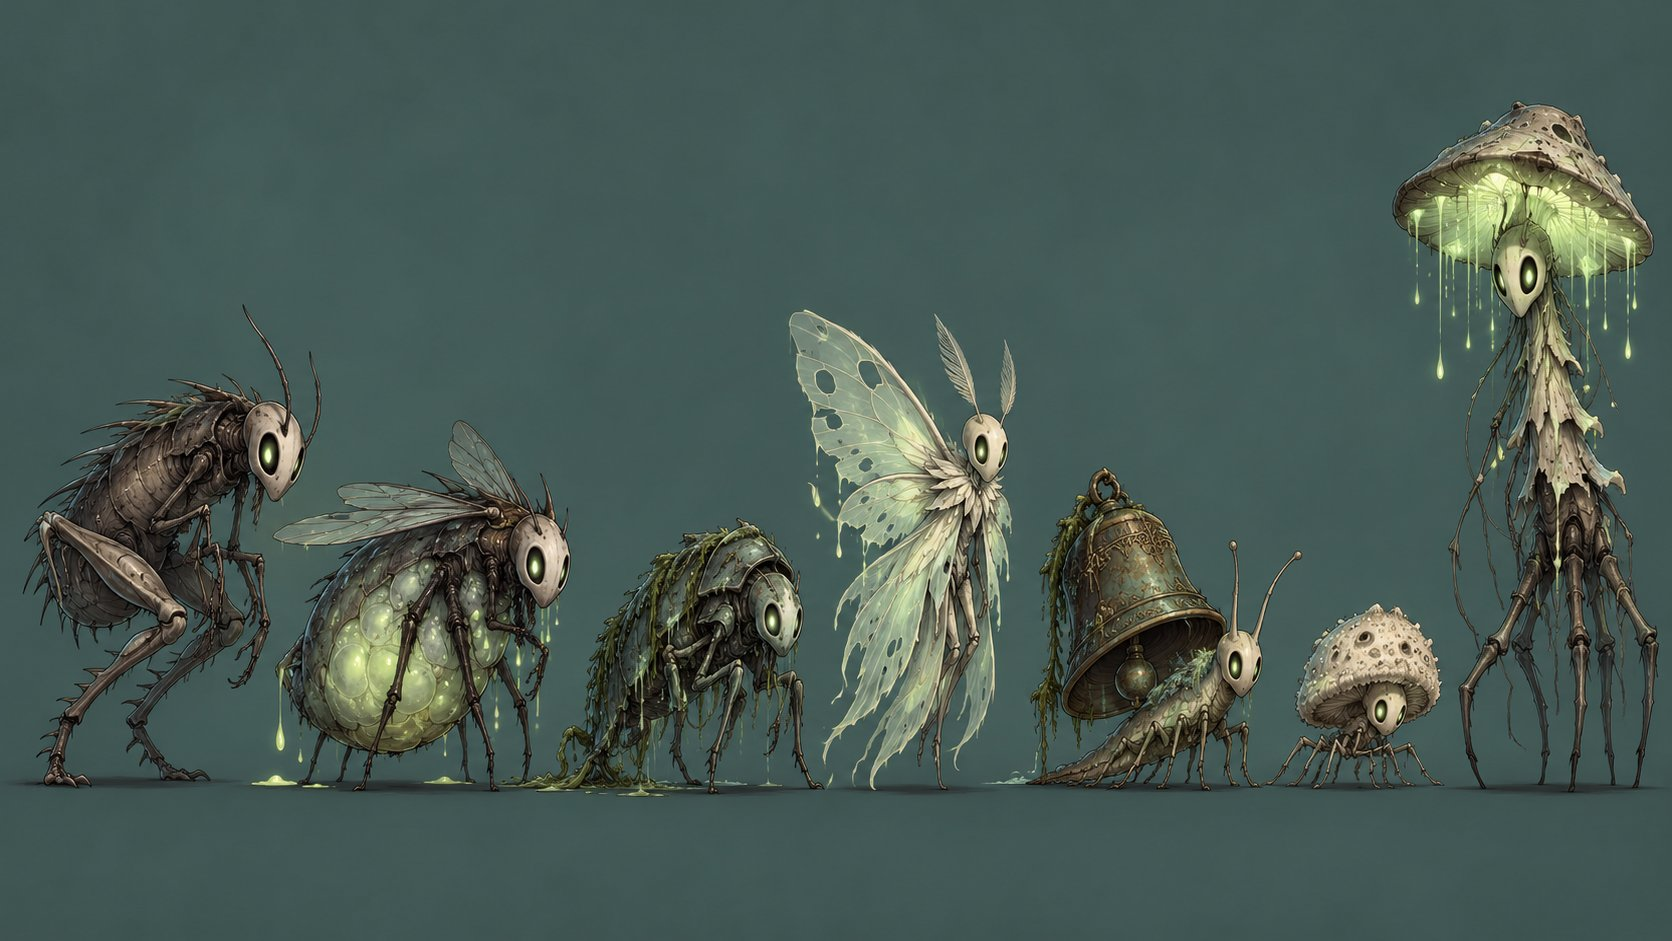
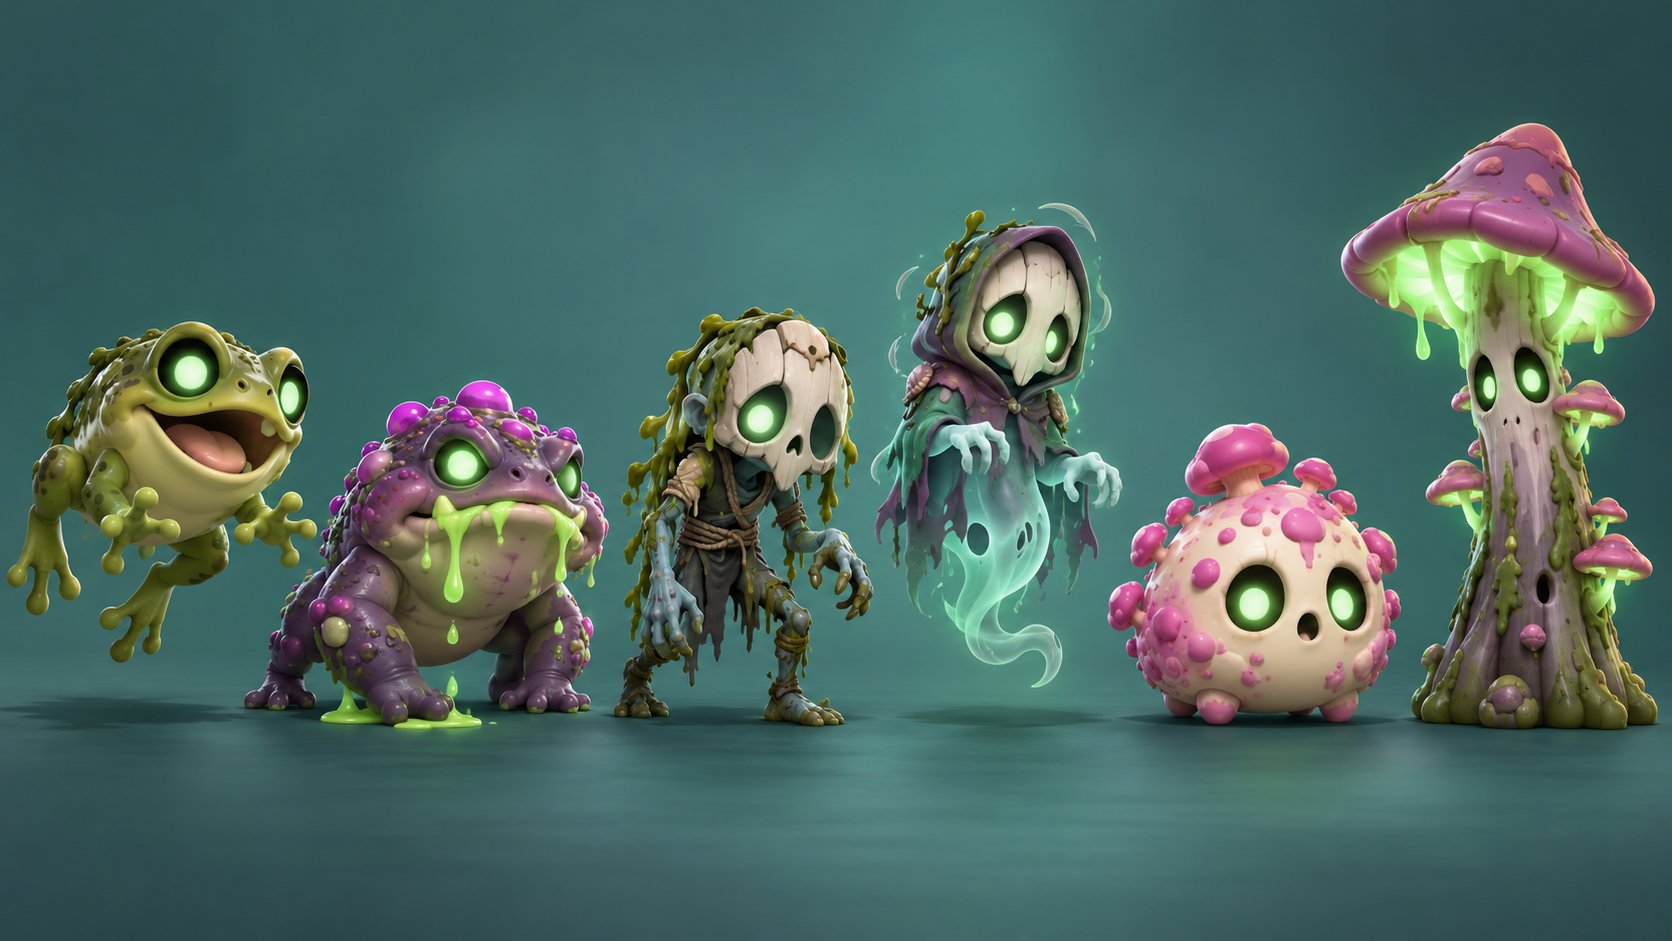
Enemies back to their arena themes, with a touch of Hollow Knight (#81)
The all-insect pass went too far (owner). Reverts it: the roster, names
and docs return to each arena's own creatures in the Archero 2 toy
style, and a design-language section adds a light touch of Hollow
Knight - bold silhouettes, hollow glowing eyes in each act's colour, a
pale mask on some creatures, the odd cloak. New line-ups for all five
acts made with ChatGPT Codex; arenas unchanged.

diff --git a/docs/ENEMIES-AND-ARENAS.md b/docs/ENEMIES-AND-ARENAS.md
@@ -34,40 +34,29 @@ directly above on a phone, glowing eyes, and a telegraph before any hit.
 
 ---
 
-## Design language — an insect kingdom
+## Design language — themed, with a touch of Hollow Knight
 
-The owner, 2026-10-22: keep the arenas, and "take inspiration from the enemy
-design from Hollow Knight and Hollow Knight Silksong". So every enemy is an
-**original** creature of an insect kingdom, built to the same rules those
-games' bestiaries follow — not a copy of any of their characters:
+Enemies belong to their arena: forest slimes and wolves, marsh frogs and
+toads, mountain yetis and goats, forge imps and golems, castle knights and
+ghosts — in the same Archero 2 toy style as the arenas (`ART-archero2.md`).
 
-- **Bugs, all of them.** Chitin shells, slender spindly legs, wings, horns,
-  mandibles. The roles are unchanged — a Charger is still a Charger — only
-  the body is new.
-- **A pale mask.** Each creature wears a bone-white face plate with two big
-  hollow eye sockets. From our steep top-down camera the mask is what a
-  player sees first, so it carries the silhouette.
-- **Eyes glow in the act's colour.** It keeps our readability rule (glowing
-  eyes, nothing important dark) and ties each act together: amber in the
-  Wilds, pale green in the Lowlands, cold white-blue in the Heights, ember
-  orange in the Depths, void violet at the End.
-- **One silhouette idea per creature.** A shield, a bell, a horn, a hood —
-  the rest stays quiet, so a busy room on a phone still reads.
-- **Muted bodies, bright danger.** Shells in dusty, desaturated tones;
-  shots, telegraphs and the eyes carry the colour.
-- **Charming, not grim.** Odd, a little sad, never gory — the kingdom has
-  fallen, and its bugs carry on.
+On top of that, a light touch of what makes Hollow Knight's and Silksong's
+creatures memorable (owner, 2026-10-22: "take some inspiration but still
+keep the arena theme" — an earlier all-insect pass went too far):
 
-In game they become low-poly 3D models in the toy style the arenas use
-(`ART-archero2.md`); the concept sheets are painted to settle the design.
+- **Bold, simple silhouettes** — one idea per creature, readable from our
+  steep top-down camera on a phone.
+- **Hollow, glowing eyes**, in each act's colour: amber in the Wilds, pale
+  green in the Lowlands, white-blue in the Heights, ember orange in the
+  Depths, violet at the End.
+- **A small pale mask or face plate on *some* creatures** — the Glade Wolf's
+  skull mask, the Corrupted Monk's hollow mask, the Void Wisp that is only a
+  mask — not on all of them, so it stays a signature rather than a uniform.
+- **The odd slender limb or little tattered cloak**, and a slightly wistful
+  charm — never gory.
 
-| Act | Accent | New names (old role name) |
-|---|---|---|
-| 1 | amber | Mossgrub (Moss Slime) · Seedspitter (Sprout Slime) · Thicket Hound (Glade Wolf) · Broodbelly (Mother Slime) · Briar Skitter (Thorn Spider) · Silk Spinner (Web Spitter) · Root Lurker (Bramble Lurker) · Weaver Matron (Broodmother) · Mantis Archer (Bandit Archer) · Shellguard (Brute) · Needle Rogue (Cutthroat) · Spore Lobber (Bomb Tosser) |
-| 2 | pale green | Mire Flea (Bog Frog) · Bloatfly (Toxic Toad) · Mire Leech (Swamp Lurker) · Flea Swarm (Croaking Chorus) · Sodden Shell (Drowned Zombie) · Lantern Moth (Wisp Ghost) · Bell Snail (Bell Ringer) · Angler Mantis (Hollow Fisherman) · Puffshroom Crawler (Spore Puff) · Glowcap · Blind Centipede (Cave Crawler) · Shellback |
-| 3 | white-blue | Gale Moth (Harpy) · Chime Mantis (Gust Shaman) · Ram Beetle (Cliff Goat) · Thunder Moth (Storm Roc) · Frost Bulk (Yeti) · Rime Scarab (Frost Golem) · Frost Mite (Snow Sprite) · Crystal Tick (Ice Lurker) · Masked Pilgrim (Corrupted Monk) · Censer Acolyte (Chanting Acolyte) · Lantern Wisp (Lantern Spirit) · Bellkeeper Beetle (Bell Guardian) |
-| 4 | ember orange | Ember Mite (Fire Imp) · Cinder Moth (Ember Bat) · Rail Weevil (Mine Cart Bomber) · Magma Grub (Magma Lurker) · Forge Shell (Dwarven Construct) · Mortar Snail (Forge Turret) · Anvil Rhino Beetle (Anvil Golem) · Spark Firefly (Spark Drone) · Magma Larva (Lava Slime) · Ember Mantis (Ember Mage) · Obsidian Stag (Obsidian Brute) |
-| 5 | void violet | Lost Sentinel (Undead Knight) · Shade Archer (Skeleton Archer) · Wailing Moth (Banshee) · Stone Stag (Gargoyle) · Void Mote (Void Wisp) · Rift Mantis (Rift Stalker) · Gravity Orb · Echo |
+These are original designs; the prompts that made the concept art describe
+the style without naming either game.
 
 ---
 
@@ -81,10 +70,10 @@ the act that teaches the game.
 
 | Enemy | Made from | What it does | Teaches |
 |---|---|---|---|
-| **Mossgrub** | Charger, slow · reskin | Hops straight at you | Move or shoot |
-| **Seedspitter** | Spitter · reskin | Lobs one slow seed | Dodging a shot |
-| **Thicket Hound** | Charger, fast · twist: comes in packs of 3 that circle before lunging | Circles, then dashes in | Reading a lunge |
-| *Elite:* **Broodbelly** | Bulwark · twist: bursts into 2 Mossgrubs on death | A slow wall that becomes two threats | Finishing what you start |
+| **Moss Slime** | Charger, slow · reskin | Hops straight at you | Move or shoot |
+| **Sprout Slime** | Spitter · reskin | Lobs one slow seed | Dodging a shot |
+| **Glade Wolf** | Charger, fast · twist: comes in packs of 3 that circle before lunging | Circles, then dashes in | Reading a lunge |
+| *Elite:* **Mother Slime** | Bulwark · twist: splits into 2 Moss Slimes on death | A slow wall that becomes two threats | Finishing what you start |
 
 **Arenas.** *Clearing* — open grass, two mossy stumps. *Fairy Ring* — a ring
 of mushrooms (low cover) round an open centre. *Fallen Log* — one long log
@@ -94,10 +83,10 @@ across the middle with a gap at each end.
 
 | Enemy | Made from | What it does |
 |---|---|---|
-| **Briar Skitter** | Charger · twist: leaves a short sticky web patch where it dies (slows) | Fast skitter, web on death |
-| **Silk Spinner** | Spitter · twist: its orbs leave slow patches | Area denial |
-| **Root Lurker** | Lurker · reskin (vine bulb) | Surfaces under you with a ring of thorns |
-| *Elite:* **Weaver Matron** | Bulwark · twist: drops 2 Briar Skitters every few seconds | Must be pushed through |
+| **Thorn Spider** | Charger · twist: leaves a short sticky web patch where it dies (slows) | Fast skitter, web on death |
+| **Web Spitter** | Spitter · twist: its orbs leave slow patches | Area denial |
+| **Bramble Lurker** | Lurker · reskin (vine bulb) | Surfaces under you with a ring of thorns |
+| *Elite:* **Broodmother** | Bulwark · twist: drops 2 Thorn Spiders every few seconds | Must be pushed through |
 
 **Arenas.** *Bramble Maze* — brambles carve the room into lanes with gaps.
 *The Funnel* — the room narrows to a single gap halfway up. *Briar Patch* —
@@ -107,10 +96,10 @@ scattered bramble clumps; touching one slows (a soft hazard).
 
 | Enemy | Made from | What it does |
 |---|---|---|
-| **Mantis Archer** | Lancer · reskin (hooded bandit, bow) | Telegraphed aimed shot |
-| **Shellguard** | Bulwark · reskin (big club, wooden shield) | Blocks, swings when close |
-| **Needle Rogue** | Charger · twist: dashes in, strikes, then retreats | Hit-and-run |
-| **Spore Lobber** | Spitter · twist: one arcing bomb that bursts in a ring after a fuse | A delayed area |
+| **Bandit Archer** | Lancer · reskin (hooded bandit, bow) | Telegraphed aimed shot |
+| **Brute** | Bulwark · reskin (big club, wooden shield) | Blocks, swings when close |
+| **Cutthroat** | Charger · twist: dashes in, strikes, then retreats | Hit-and-run |
+| **Bomb Tosser** | Spitter · twist: one arcing bomb that bursts in a ring after a fuse | A delayed area |
 
 **Arenas.** *Canyon Floor* — long open room, crates as cover. *Watchtowers* —
 two raised platforms an archer stands on (it can only be reached by shots).
@@ -129,10 +118,10 @@ that slows — the act where standing still in the wrong place costs you.
 
 | Enemy | Made from | What it does |
 |---|---|---|
-| **Mire Flea** | **New: leaper** — jumps to a marked spot, lands with a splash ring | Telegraphed leaps |
-| **Bloatfly** | Spitter · twist: shots leave a poison puddle | Poisons the ground |
-| **Mire Leech** | Lurker · reskin (eyes on stalks) | Pops up out of the water |
-| *Elite:* **Flea Swarm** | 4 Mire Fleas that leap together on a beat | Rhythm dodging |
+| **Bog Frog** | **New: leaper** — jumps to a marked spot, lands with a splash ring | Telegraphed leaps |
+| **Toxic Toad** | Spitter · twist: shots leave a poison puddle | Poisons the ground |
+| **Swamp Lurker** | Lurker · reskin (eyes on stalks) | Pops up out of the water |
+| *Elite:* **Croaking Chorus** | 4 Bog Frogs that leap together on a beat | Rhythm dodging |
 
 **Arenas.** *Lily Pads* — the floor is water with pad "islands"; water is a
 slow zone. *Poison Ring* — a poison pool in the middle, fight round its edge.
@@ -142,10 +131,10 @@ slow zone. *Poison Ring* — a poison pool in the middle, fight round its edge.
 
 | Enemy | Made from | What it does |
 |---|---|---|
-| **Sodden Shell** | Charger, slow · twist: rises once more after death unless it burns | Slow, relentless |
-| **Lantern Moth** | **New: phaser** — drifts through walls and obstacles, fades in and out | Can't be hidden from |
-| **Bell Snail** | Lancer · twist: its shot is a sound wave cone, not a line | A wide telegraph |
-| *Elite:* **Angler Mantis** | Bulwark · twist: hooks you toward it (pull) | Being pulled |
+| **Drowned Zombie** | Charger, slow · twist: rises once more after death unless it burns | Slow, relentless |
+| **Wisp Ghost** | **New: phaser** — drifts through walls and obstacles, fades in and out | Can't be hidden from |
+| **Bell Ringer** | Lancer · twist: its shot is a sound wave cone, not a line | A wide telegraph |
+| *Elite:* **Hollow Fisherman** | Bulwark · twist: hooks you toward it (pull) | Being pulled |
 
 **Arenas.** *Flooded Street* — two rows of broken houses, a lane between.
 *The Square* — a well in the middle, houses round the edge. *Rooftops* —
@@ -155,9 +144,9 @@ gaps between roofs are drops (void edges, a light preview of Act 5).
 
 | Enemy | Made from | What it does |
 |---|---|---|
-| **Puffshroom Crawler** | Charger · twist: bursts into a poison cloud when killed close | Kill it from range |
+| **Spore Puff** | Charger · twist: bursts into a poison cloud when killed close | Kill it from range |
 | **Glowcap** | **New: stationary** — a mushroom turret that sprays spores in a spiral | A rotating hazard |
-| **Blind Centipede** | Lurker · reskin (blind cave worm) | Surfaces under you |
+| **Cave Crawler** | Lurker · reskin (blind cave worm) | Surfaces under you |
 | **Shellback** | Bulwark · reskin (beetle) | The wall between you and the turrets |
 
 **Arenas.** *Fungus Grove* — giant mushrooms as pillars; their caps glow.
@@ -177,10 +166,10 @@ you stop — the act where your position is not fully yours.
 
 | Enemy | Made from | What it does |
 |---|---|---|
-| **Gale Moth** | **New: flyer** — crosses walls and gaps, dives at a marked spot | Threat from anywhere |
-| **Chime Mantis** | Lancer · twist: shot knocks you back instead of only hurting | Positional danger |
-| **Ram Beetle** | Charger · twist: charge knocks back hard | Don't stand near edges |
-| *Elite:* **Thunder Moth** | Gale Moth, big · sheds scales in a fan as it dives | — |
+| **Harpy** | **New: flyer** — crosses walls and gaps, dives at a marked spot | Threat from anywhere |
+| **Gust Shaman** | Lancer · twist: shot knocks you back instead of only hurting | Positional danger |
+| **Cliff Goat** | Charger · twist: charge knocks back hard | Don't stand near edges |
+| *Elite:* **Storm Roc** | Harpy, big · drops feathers in a fan as it dives | — |
 
 **Arenas.** *Ledge Path* — a narrow walkway with drops each side (void
 edges). *Wind Tunnel* — gusts push everything one way on a cycle (shown by
@@ -190,10 +179,10 @@ streaks first). *Twin Peaks* — two plateaus joined by a bridge.
 
 | Enemy | Made from | What it does |
 |---|---|---|
-| **Frost Bulk** | Bulwark · twist: throws a big snowball (slow, arcing, splash) | Heavy, slow |
-| **Rime Scarab** | Bulwark · twist: freezes the ground in a ring when it stomps | Makes ice |
-| **Frost Mite** | Spitter · twist: shots chill (slow you) | Speed drain |
-| **Crystal Tick** | Lurker · reskin (crystal) | Surfaces under you |
+| **Yeti** | Bulwark · twist: throws a big snowball (slow, arcing, splash) | Heavy, slow |
+| **Frost Golem** | Bulwark · twist: freezes the ground in a ring when it stomps | Makes ice |
+| **Snow Sprite** | Spitter · twist: shots chill (slow you) | Speed drain |
+| **Ice Lurker** | Lurker · reskin (crystal) | Surfaces under you |
 
 **Arenas.** *Frozen Lake* — most of the floor is ice: you slide, you can't
 stop dead (a movement change, the act's real test). *Icicle Gorge* — icicles
@@ -203,10 +192,10 @@ fall on marked spots on a timer. *Snowbound Pass* — snowdrifts as low cover.
 
 | Enemy | Made from | What it does |
 |---|---|---|
-| **Masked Pilgrim** | Charger · twist: a 3-hit combo, then pauses | Wait for the opening |
-| **Censer Acolyte** | Spitter · twist: fires in rotating spirals | Bullet patterns |
-| **Lantern Wisp** | **New: phaser** (shared with Lantern Moth) | — |
-| **Bellkeeper Beetle** | Bulwark · twist: rings a shockwave ring every few seconds | Ring timing |
+| **Corrupted Monk** | Charger · twist: a 3-hit combo, then pauses | Wait for the opening |
+| **Chanting Acolyte** | Spitter · twist: fires in rotating spirals | Bullet patterns |
+| **Lantern Spirit** | **New: phaser** (shared with Wisp Ghost) | — |
+| **Bell Guardian** | Bulwark · twist: rings a shockwave ring every few seconds | Ring timing |
 
 **Arenas.** *Prayer Hall* — rows of pillars. *Spike Floor* — floor tiles spike
 up in a pattern (checkerboard, sweeping row) that the room shows a beat
@@ -225,10 +214,10 @@ where the arena itself is the most dangerous enemy.
 
 | Enemy | Made from | What it does |
 |---|---|---|
-| **Ember Mite** | Charger, fast · twist: leaves a short fire trail | Don't follow its path |
-| **Cinder Moth** | **New: flyer** (shared with Gale Moth) | Swoops over the cracks |
-| **Rail Weevil** | **New: rider** — rides fixed rails, drops bombs | Rails are lanes to avoid |
-| **Magma Grub** | Lurker · reskin | Surfaces under you |
+| **Fire Imp** | Charger, fast · twist: leaves a short fire trail | Don't follow its path |
+| **Ember Bat** | **New: flyer** (shared with Harpy) | Swoops over the cracks |
+| **Mine Cart Bomber** | **New: rider** — rides fixed rails, drops bombs | Rails are lanes to avoid |
+| **Magma Lurker** | Lurker · reskin | Surfaces under you |
 
 **Arenas.** *Mine Shafts* — narrow tunnels. *Lava Cracks* — glowing cracks
 that erupt on a timer (warning glow first). *Collapsing Tunnel* — floor
@@ -238,10 +227,10 @@ sections crumble after you've stood on them for a moment.
 
 | Enemy | Made from | What it does |
 |---|---|---|
-| **Forge Shell** | Bulwark · reskin (stone and brass) | The wall |
-| **Mortar Snail** | **New: stationary** (shared with Glowcap) — aimed bursts | Stationary threat |
-| **Anvil Rhino Beetle** | Charger, slow · twist: slam leaves a burning ring | Big telegraph |
-| **Spark Firefly** | Spitter · twist: hovers, sprays a short fan | Pressure |
+| **Dwarven Construct** | Bulwark · reskin (stone and brass) | The wall |
+| **Forge Turret** | **New: stationary** (shared with Glowcap) — aimed bursts | Stationary threat |
+| **Anvil Golem** | Charger, slow · twist: slam leaves a burning ring | Big telegraph |
+| **Spark Drone** | Spitter · twist: hovers, sprays a short fan | Pressure |
 
 **Arenas.** *Assembly Line* — conveyor belts move you (and enemies) along.
 *Forge Floor* — open, with furnaces that vent fire on a timer. *Turret Gallery*
@@ -251,9 +240,9 @@ sections crumble after you've stood on them for a moment.
 
 | Enemy | Made from | What it does |
 |---|---|---|
-| **Magma Larva** | Charger · twist: bursts into 2 small Magma Larvae (Act 1's lesson, harder) | — |
-| **Ember Mantis** | Lancer · twist: fires three lines in a fan | Wider telegraph |
-| **Obsidian Stag** | Bulwark · twist: immune from the front | Flank it |
+| **Lava Slime** | Charger · twist: splits into 2 small lava slimes (Act 1's lesson, harder) | — |
+| **Ember Mage** | Lancer · twist: fires three lines in a fan | Wider telegraph |
+| **Obsidian Brute** | Bulwark · twist: immune from the front | Flank it |
 
 **Arenas.** *Rising Lava* — the room's edges flood with lava over the fight,
 shrinking the safe floor. *Basalt Islands* — islands over lava joined by
@@ -272,21 +261,21 @@ shifts — the act where the rules of the room change.
 
 | Enemy | Made from | What it does |
 |---|---|---|
-| **Lost Sentinel** | Bulwark · twist: blocks from the front, lunges | Patience |
-| **Shade Archer** | Lancer · reskin | — |
-| **Wailing Moth** | **New: phaser** (shared) · twist: shriek cone slows | — |
-| **Stone Stag** | **New: perch** — a statue (untargetable) until you come near | Ambush |
+| **Undead Knight** | Bulwark · twist: blocks from the front, lunges | Patience |
+| **Skeleton Archer** | Lancer · reskin | — |
+| **Banshee** | **New: phaser** (shared) · twist: shriek cone slows | — |
+| **Gargoyle** | **New: perch** — a statue (untargetable) until you come near | Ambush |
 
 **Arenas.** *Throne Hall* — pillars and a long carpet. *Broken Battlements* —
-wall walk with gaps (void edges). *Courtyard of Statues* — stag-beetle statues
+wall walk with gaps (void edges). *Courtyard of Statues* — gargoyle statues
 everywhere; some wake.
 
 ### 14. Void Rift — floating platforms · lean: Ranger (open)
 
 | Enemy | Made from | What it does |
 |---|---|---|
-| **Void Mote** | **New: blinker** — teleports to a marked spot near you, then fires | Watch the mark |
-| **Rift Mantis** | Charger · twist: blinks the last few studs of its charge | Late dodge |
+| **Void Wisp** | **New: blinker** — teleports to a marked spot near you, then fires | Watch the mark |
+| **Rift Stalker** | Charger · twist: blinks the last few studs of its charge | Late dodge |
 | **Gravity Orb** | **New: stationary** · pulls you toward it | Fight the pull |
 | *Elite:* **Echo** | A copy of the player's own class, weaker | Fight yourself |
 
@@ -330,9 +319,9 @@ have.
 
 ## Concept art
 
-Made with ChatGPT Codex (owner's choice for images and models). The arenas
-are in the Archero 2 toy style of `ART-archero2.md`; the enemy line-ups were
-redone in the insect-kingdom design language above (2026-10-22).
+Made with ChatGPT Codex (owner's choice for images and models), in the
+Archero 2 toy style of `ART-archero2.md`. Each act has an enemy line-up —
+redone 2026-10-22 with the design language above — and an arena sheet.
 
 | Act | Enemies | Arena |
 |---|---|---|

diff --git a/docs/BOSSES.md b/docs/BOSSES.md
@@ -43,7 +43,7 @@ clearly.
 - **Phase 1 — Royal Hop.** Hops toward you; a ring marks where it lands; the
   landing sends out a slow ripple. Between hops it sits still — the window.
 - **Phase 2 (50%) — Divided Court.** Splits into two half-size Bloblins that
-  hop in turn, then, below 25% each, into Mossgrubs.
+  hop in turn, then, below 25% each, into Moss Slimes.
 - *Teaches:* watch the landing mark; finish what you start (Mother Slime,
   bigger). *Class notes:* Ranger kites easily; Warden must dodge the ripple
   to stay close.
@@ -91,7 +91,7 @@ clearly.
 - **Phase 1 — Toll.** Rings the bell: a shockwave ring expands from it,
   jump-free — you must be outside it or between two rings. Drifts through
   houses (phaser).
-- **Phase 2 (50%) — The Drowned Rise.** Each toll raises Sodden Shells; the
+- **Phase 2 (50%) — The Drowned Rise.** Each toll raises Drowned Zombies; the
   bell's rings now come in pairs.
 - *Teaches:* ring timing; nothing can hide behind a wall here. *Class notes:*
   Warden can stand inside the ring's gap; Ranger must keep line of sight.
@@ -103,7 +103,7 @@ clearly.
 - **Phase 2 (66%) — Belly Flop.** Leaps to a marked spot (leaper); the landing
   sends a shockwave ring and splashes poison.
 - **Phase 3 (33%) — The Bog Rises.** Poison floods the room's edges, shrinking
-  the dry floor; she swallows Puffshroom Crawlers and spits them as bursting clouds.
+  the dry floor; she swallows Spore Puffs and spits them as bursting clouds.
 - *Arena:* an underground lake ringed by glowing mushrooms. *Teaches:* every
   Lowlands lesson at once. *Class notes:* Ranger has the safest tongue
   windows; Arcanist's freeze can hold her mid-leap.
@@ -163,7 +163,7 @@ clearly.
 *A towering dwarven war-construct with a hammer and a furnace core.*
 
 - **Phase 1 — Hammer.** Slams in a marked cone and a shockwave line; deploys
-  Mortar Snails on the walls.
+  Forge Turrets on the walls.
 - **Phase 2 (50%) — Overheat.** Vents fire in a ring after every few slams,
   then stalls with its core exposed — the big damage window.
 - *Teaches:* stationary threats and windows. *Class notes:* Ranger clears
@@ -190,7 +190,7 @@ clearly.
 *A giant undead knight with a tower shield and a greatsword.*
 
 - **Phase 1 — Shield Wall.** Blocks everything from the front; sweeping sword
-  arcs; summons Shade Archers. Flank him.
+  arcs; summons Skeleton Archers. Flank him.
 - **Phase 2 (50%) — Broken Oath.** Drops the shield; throws his sword in a
   spinning arc that returns, and lunges after it.
 - *Teaches:* patience and flanking. *Class notes:* Warden's knockback turns

diff --git a/docs/WORLD.md b/docs/WORLD.md
@@ -86,11 +86,6 @@ Signature hazards by act, as suggested: slow (Lowlands — poison and slow
 zones), knockback (Heights), lava (Depths), void (The End); the Wilds' is
 open — brambles' choke points are the nearest candidate.
 
-The enemies named in this table are the owner's first outline; the
-designed roster is an insect kingdom in the spirit of Hollow Knight and
-Silksong (original creatures, pale masks, eyes in each act's colour) — see
-`ENEMIES-AND-ARENAS.md`, "Design language".
-
 New enemy types are built the way `PROGRESSION.md` already says: from the
 five archetypes (charger, spitter, lancer, bulwark, lurker) with new art and
 stats where they fit, and new archetypes only where a behaviour is genuinely
